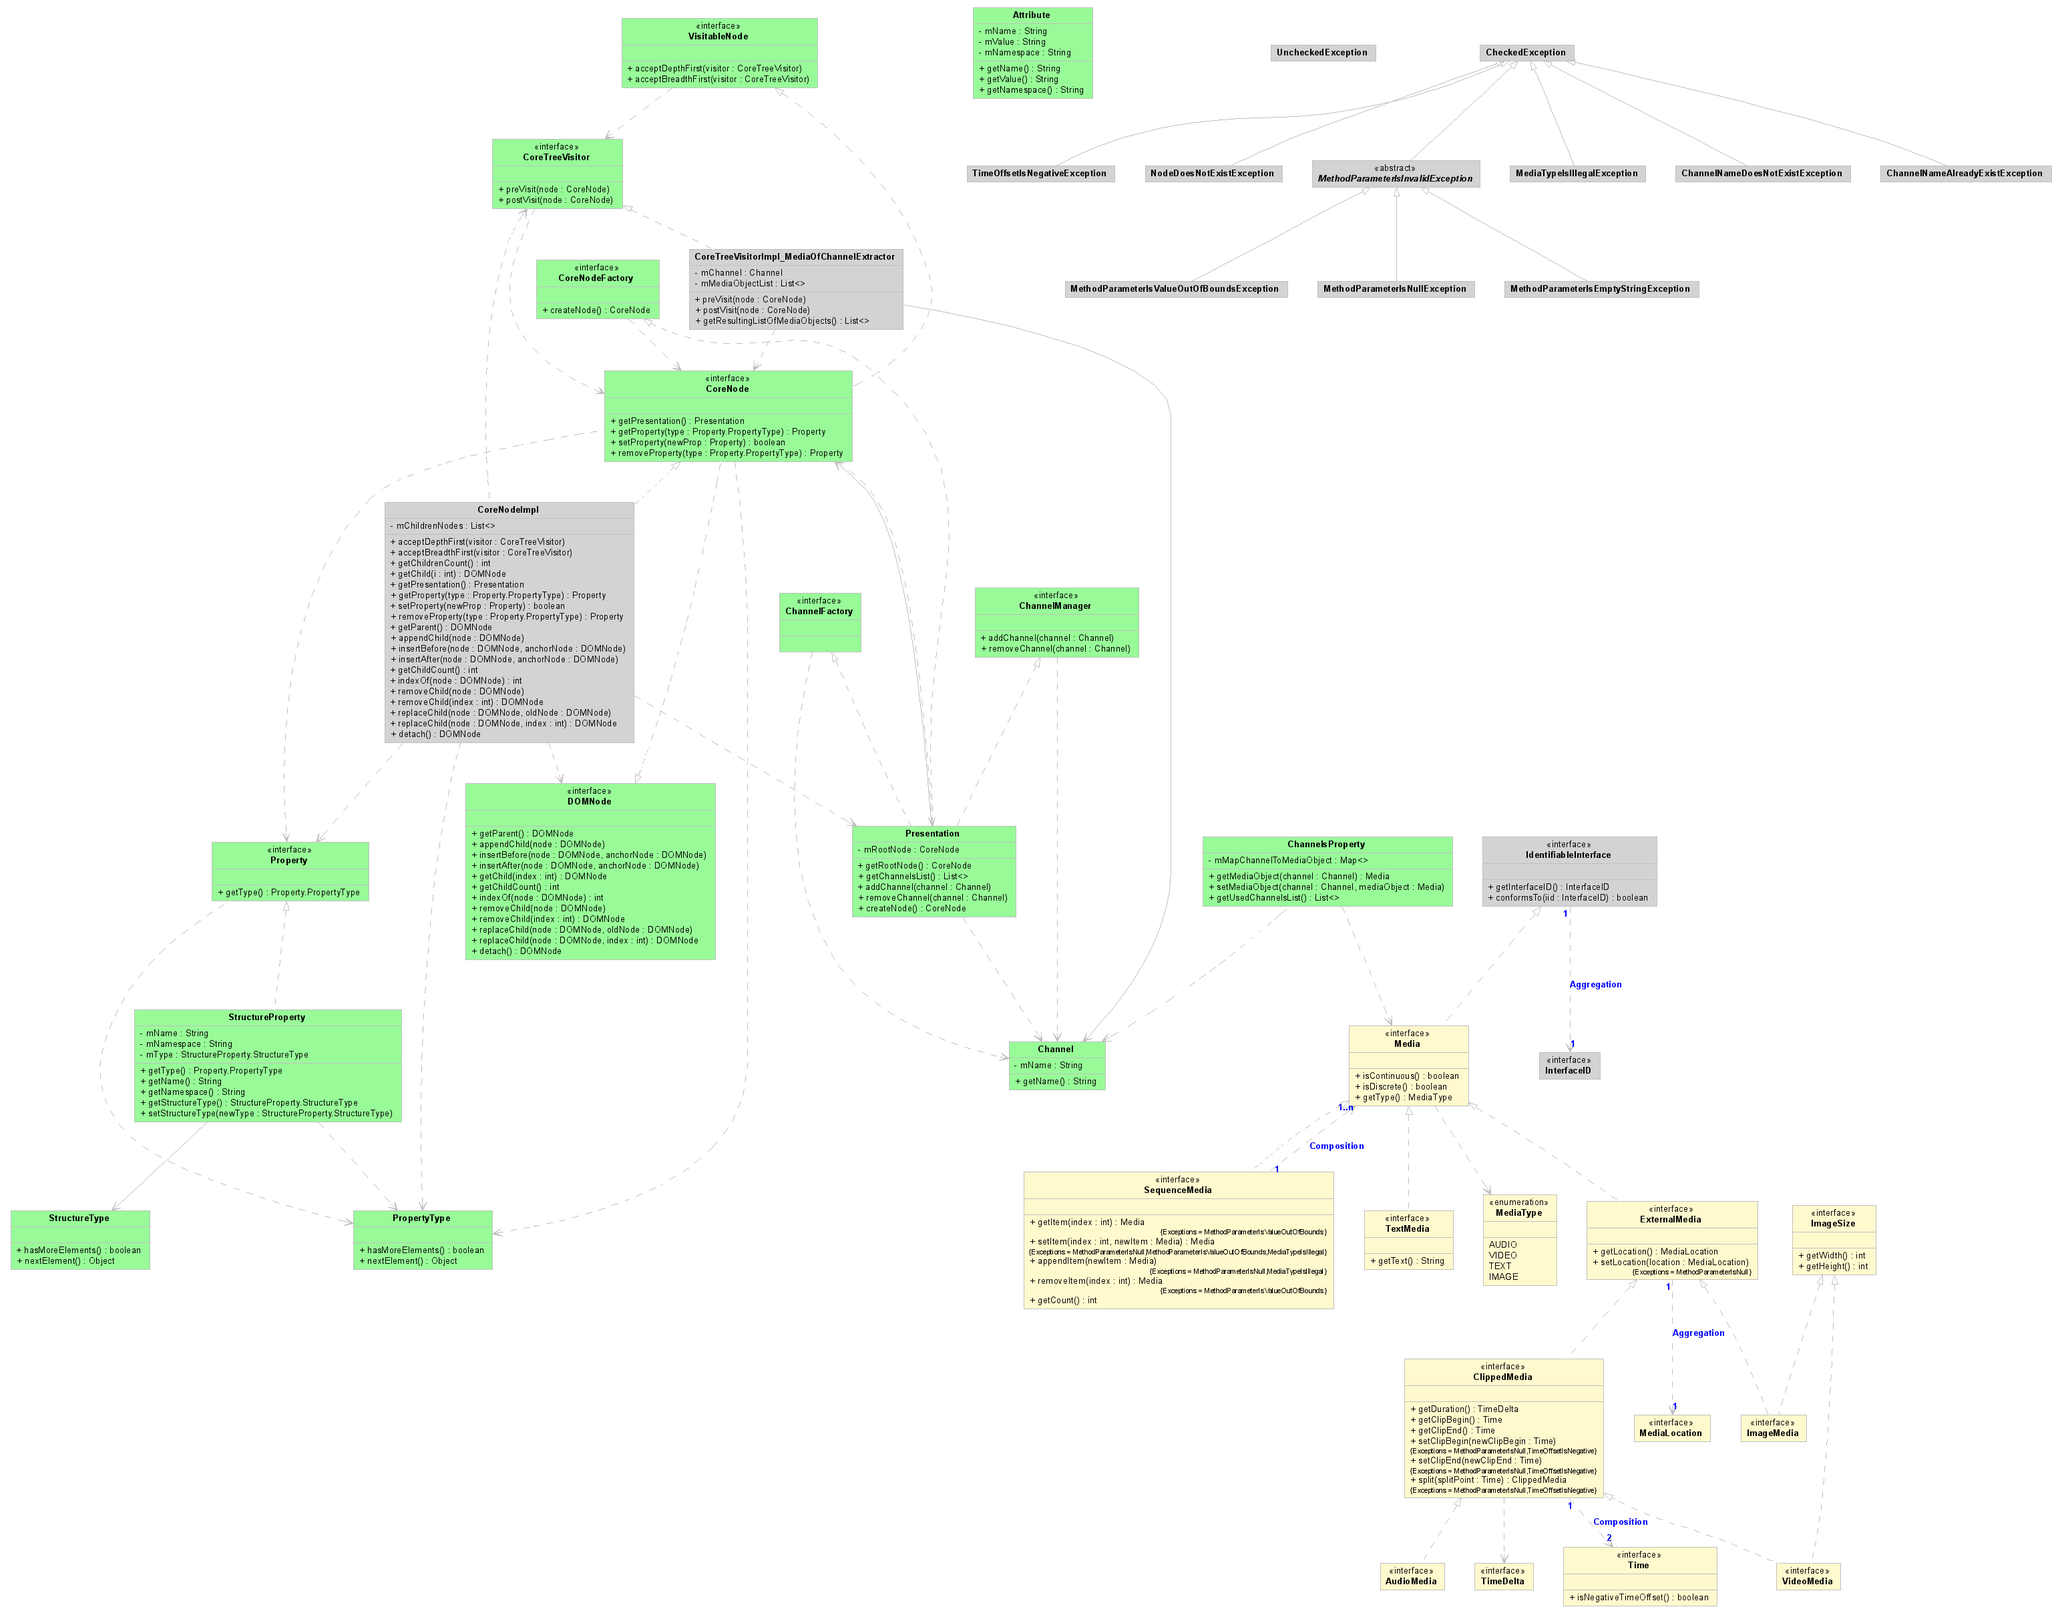
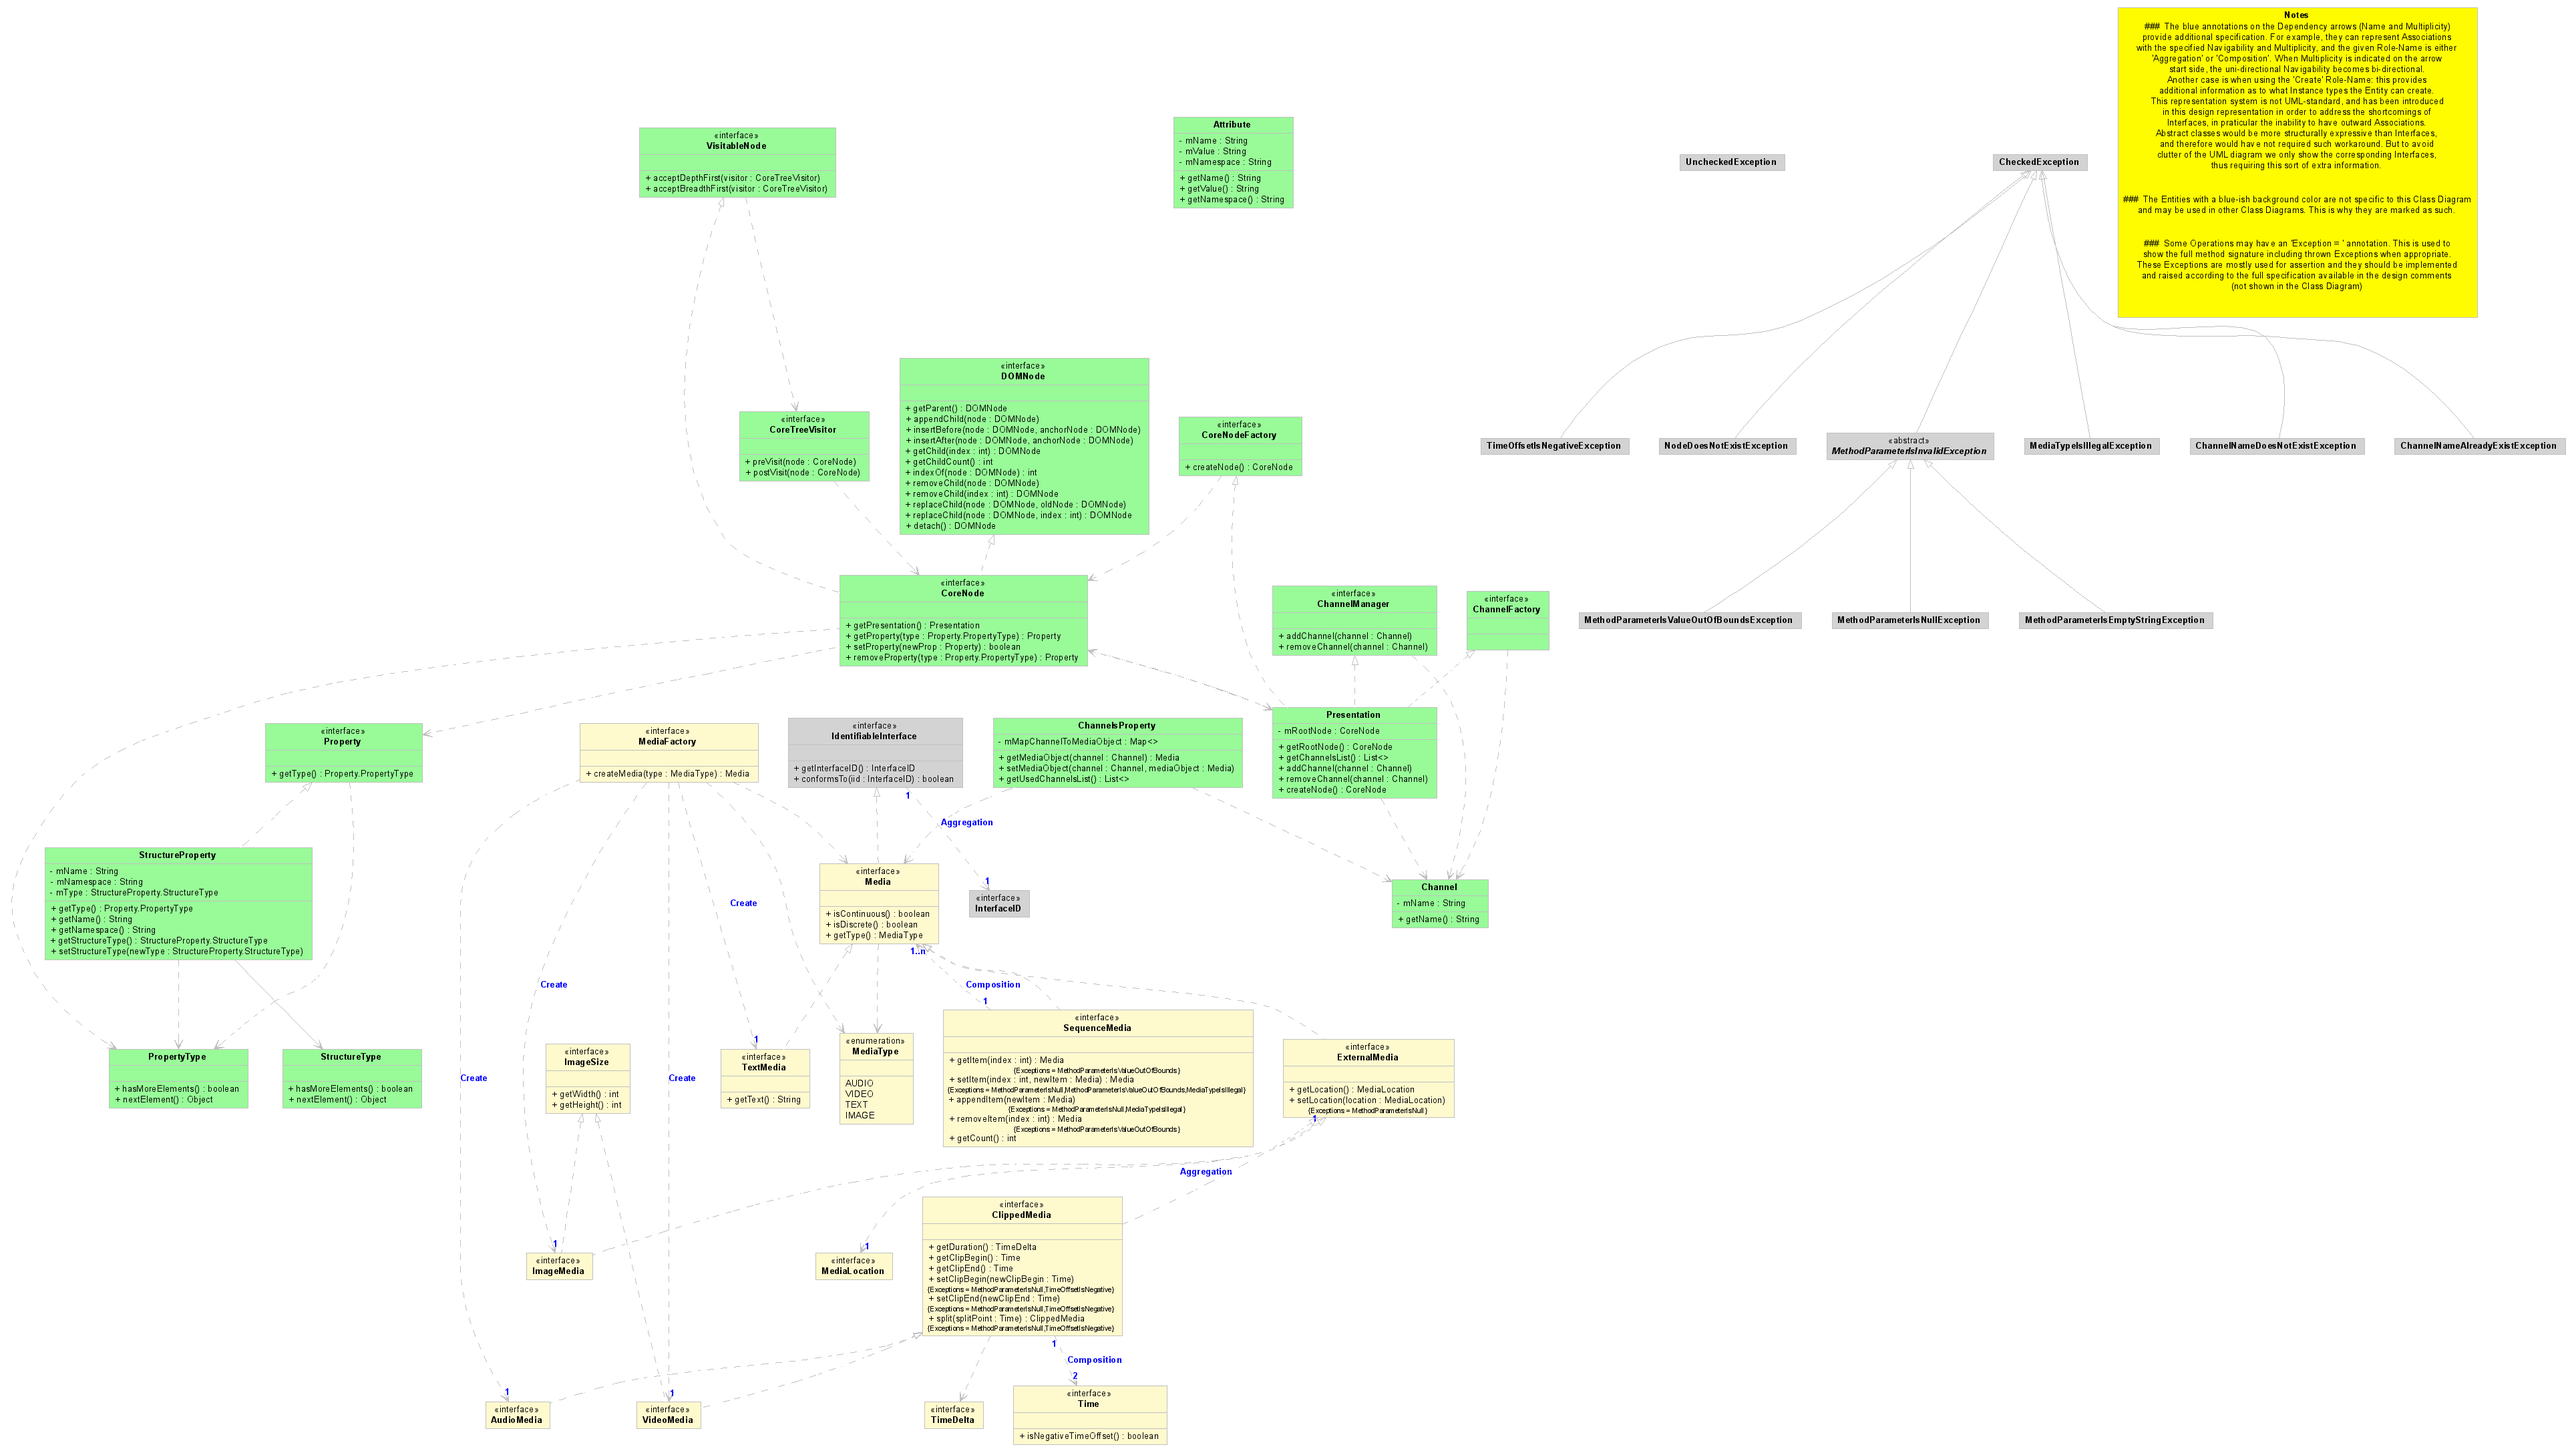
- Daniel WECK * Updated UMLGraph presentation to include a Sticky note in all diagrams.

diff --git a/java/UMLGraph/src/org/daisy/urakawa/UMLGraph_Urakawa.java b/java/UMLGraph/src/org/daisy/urakawa/UMLGraph_Urakawa.java
@@ -40,29 +40,24 @@ class UMLOptions {
  * http://www.w3schools.com/html/html_colornames.asp
  * http://www.webdevelopersnotes.com/design/list_of_HTML_color_names.php3
  * http://www.scriptingmaster.com/html/HTML-extended-color-names.asp
- * 
+ *
  * @view
  * @opt nodefillcolor LightGray
  * @opt nodefontcolor Black
  * @opt nodefontname arial
  * @opt nodefontabstractname arial
  * @opt nodefontsize 10
- *
  * @opt nodefontclassname arialbd
  * @opt nodefontclassabstractname arialbi
  * @opt nodefontclasssize 10
- *
  * @opt nodefonttagname arial
  * @opt nodefonttagsize 8
- *
  * @opt nodefontpackagename arial
  * @opt nodefontpackagesize 8
- *
  * @opt edgefontname arialbd
  * @opt edgefontsize 10
  * @opt edgefontcolor Blue
  * @opt edgecolor Gray
- *
  * @opt bgcolor white
  */
 abstract class ViewBase {
@@ -76,6 +71,8 @@ abstract class ViewBase {
  * @opt nodefillcolor LemonChiffon
  * @match class org.daisy.urakawa.coreDataModel.*
  * @opt nodefillcolor PaleGreen
+ * @match class org.daisy.urakawa.impl.*
+ * @opt hide
  */
 class ViewFullUML extends ViewBase {
 }
@@ -106,11 +103,8 @@ class ViewCoreDataModel extends ViewBase {
  * @opt hide
  * @match class org.daisy.urakawa.media.*
  * @opt !hide
- * @match class org.daisy.urakawa.ClassDiagramNotes_Media
+ * @match class org.daisy.urakawa.Notes
  * @opt !hide
- * @opt nodefillcolor Yellow
- * @opt nodefonttagname arial
- * @opt nodefonttagsize 10
  * @match class org.daisy.urakawa.IdentifiableInterface
  * @opt !hide
  * @opt nodefillcolor LightBlue
@@ -122,33 +116,38 @@ class ViewMedia extends ViewBase {
 }
 
 /**
- * @tagvalue Notes "{-__The__blue__annotations__on__the__Dependency__arrows__(Name__and__Multiplicity)<br/>provide__additional__specification.__For__example,__they__can__represent__Associations<br/>with__the__specified__Navigability__and__Multiplicity,__and__the__given__Role-Name__is__either<br/>'Aggregation'__or__'Composition'.__When__Multiplicity__is__indicated__on__the__arrow<br/>start__side,__the__uni-directional__Navigability__becomes__bi-directional.<br/>Another__case__is__when__using__the__'Create'__Role-Name:__this__provides<br/>additional__information__as__to__what__Instance__types__the__Entity__can__create.<br/>This__representation__system__is__not__UML-standard,__and__has__been__introduced<br/>in__this__design__representation__in__order__to__address__the__shortcomings__of<br/>Interfaces,__in__praticular__the__inability__to__have__outward__Associations.<br/>Abstract__classes__would__be__more__structurally__expressive__than__Interfaces,<br/>and__therefore__would__have__not__required__such__workaround.__But__to__avoid<br/>clutter__of__the__UML__diagram__we__only__show__the__corresponding__Interfaces,<br/>thus__requiring__this__sort__of__extra__information.<br/>__<br/>-__The__Entities__with__a__blue-ish__background__color__are__not__specific__to__this__Class__Diagram<br/>and__may__be__used__in__other__Class__Diagrams.__This__is__why__they__are__marked__as__such.<br/>__<br/>-__Some__Operations__may__have__an__'Exception__=__'__annotation.__This__is__used__to<br/>show__the__full__method__signature__including__thrown__Exceptions__when__appropriate.<br/>These__Exceptions__are__mostly__used__for__assertion__and__they__should__be__implemented<br/>and__raised__according__to__the__full__specification__available__in__the__design__comments<br/>(not__shown__in__the__Class__Diagram)}Notes"
+ * @tagvalue Notes "{### __The__blue__annotations__on__the__Dependency__arrows__(Name__and__Multiplicity)<br/>provide__additional__specification.__For__example,__they__can__represent__Associations<br/>with__the__specified__Navigability__and__Multiplicity,__and__the__given__Role-Name__is__either<br/>'Aggregation'__or__'Composition'.__When__Multiplicity__is__indicated__on__the__arrow<br/>start__side,__the__uni-directional__Navigability__becomes__bi-directional.<br/>Another__case__is__when__using__the__'Create'__Role-Name:__this__provides<br/>additional__information__as__to__what__Instance__types__the__Entity__can__create.<br/>This__representation__system__is__not__UML-standard,__and__has__been__introduced<br/>in__this__design__representation__in__order__to__address__the__shortcomings__of<br/>Interfaces,__in__praticular__the__inability__to__have__outward__Associations.<br/>Abstract__classes__would__be__more__structurally__expressive__than__Interfaces,<br/>and__therefore__would__have__not__required__such__workaround.__But__to__avoid<br/>clutter__of__the__UML__diagram__we__only__show__the__corresponding__Interfaces,<br/>thus__requiring__this__sort__of__extra__information.<br/>__<br/>}Notes"
+ * @tagvalue Notes "{### __The__Entities__with__a__blue-ish__background__color__are__not__specific__to__this__Class__Diagram<br/>and__may__be__used__in__other__Class__Diagrams.__This__is__why__they__are__marked__as__such.<br/>__<br/>}Notes"
+ * @tagvalue Notes "{### __Some__Operations__may__have__an__'Exception__=__'__annotation.__This__is__used__to<br/>show__the__full__method__signature__including__thrown__Exceptions__when__appropriate.<br/>These__Exceptions__are__mostly__used__for__assertion__and__they__should__be__implemented<br/>and__raised__according__to__the__full__specification__available__in__the__design__comments<br/>(not__shown__in__the__Class__Diagram)<br/>__<br/>}Notes"
+ * 
+ * @opt nodefillcolor Yellow
+ * @opt nodefonttagname arial
+ * @opt nodefonttagsize 10
  */
-class ClassDiagramNotes_Media {
-
+class Notes {
 /**
-- The blue annotations on the Dependency arrows (Name and Multiplicity)
-provide additional specification. For example, they can represent Associations
-with the specified Navigability and Multiplicity, and the given Role-Name is either
-'Aggregation' or 'Composition'. When Multiplicity is indicated on the arrow
-start side, the uni-directional Navigability becomes bi-directional.
-Another case is when using the 'Create' Role-Name: this provides
-additional information as to what Instance types the Entity can create.
-This representation system is not UML-standard, and has been introduced
-in this design representation in order to address the shortcomings of
-Interfaces, in praticular the inability to have outward Associations.
-Abstract classes would be more structurally expressive than Interfaces,
-and therefore would have not required such workaround. But to avoid
-clutter of the UML diagram we only show the corresponding Interfaces,
-thus requiring this sort of extra information.
-
-- The Entities with a blue-ish background color are not specific to this Class Diagram
-and may be used in other Class Diagrams. This is why they are marked as such.
-
-- Some Operations may have an 'Exception = ' annotation. This is used to
-show the full method signature including thrown Exceptions when appropriate.
-These Exceptions are mostly used for assertion and they should be implemented
-and raised according to the full specification available in the design comments
-(not shown in the Class Diagram)
-*/
+ - The blue annotations on the Dependency arrows (Name and Multiplicity)
+ provide additional specification. For example, they can represent Associations
+ with the specified Navigability and Multiplicity, and the given Role-Name is either
+ 'Aggregation' or 'Composition'. When Multiplicity is indicated on the arrow
+ start side, the uni-directional Navigability becomes bi-directional.
+ Another case is when using the 'Create' Role-Name: this provides
+ additional information as to what Instance types the Entity can create.
+ This representation system is not UML-standard, and has been introduced
+ in this design representation in order to address the shortcomings of
+ Interfaces, in praticular the inability to have outward Associations.
+ Abstract classes would be more structurally expressive than Interfaces,
+ and therefore would have not required such workaround. But to avoid
+ clutter of the UML diagram we only show the corresponding Interfaces,
+ thus requiring this sort of extra information.
+ 
+ - The Entities with a blue-ish background color are not specific to this Class Diagram
+ and may be used in other Class Diagrams. This is why they are marked as such.
+ 
+ - Some Operations may have an 'Exception = ' annotation. This is used to
+ show the full method signature including thrown Exceptions when appropriate.
+ These Exceptions are mostly used for assertion and they should be implemented
+ and raised according to the full specification available in the design comments
+ (not shown in the Class Diagram)
+ */
 }
